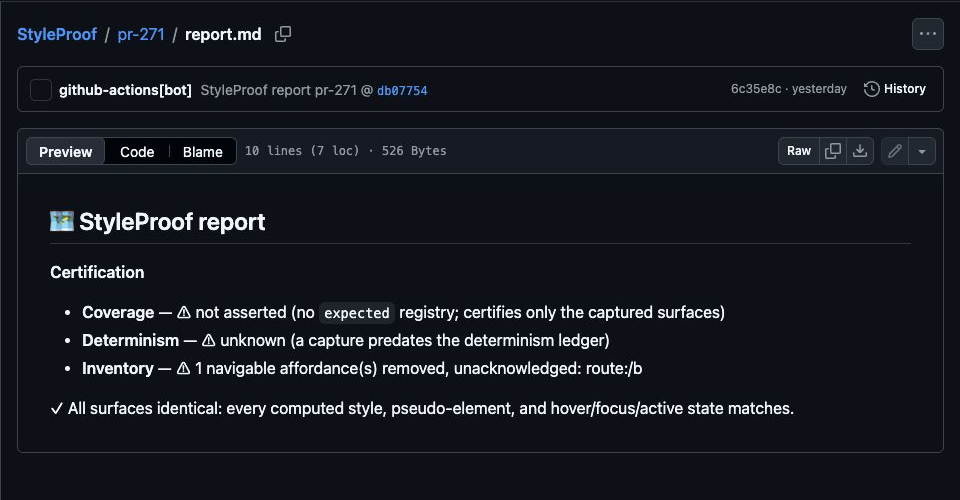
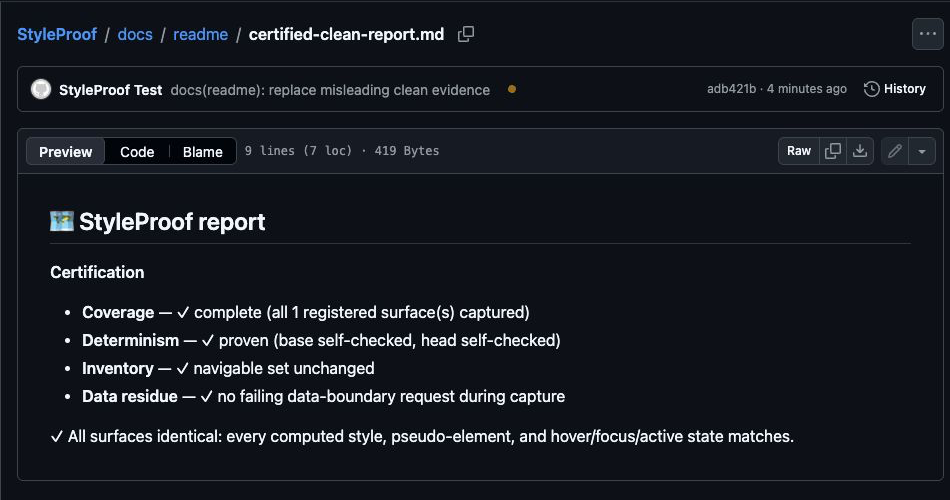
docs(readme): add certified clean screenshot

diff --git a/PROGRESS.md b/PROGRESS.md
@@ -44,7 +44,7 @@
 - Next: run focused and full Action dogfood verification, review the patch, and open a ready pull request.
 - Blockers: none.
 
-## In progress: enterprise README proof correction
+## Completed: enterprise README proof correction
 
 - Reframed the opening around enterprise evaluation: evidence, failure states,
   trust boundaries, adoption, and reviewer workflow.
@@ -53,7 +53,9 @@
 - Captured the deterministic demo twice in real Chromium with an explicit
   registry, self-checking, inventory, and data-residue gating; all 8 capture and
   coverage tests passed and the generated report is fully certified clean.
+- Replaced the misleading image with the GitHub-rendered certified report and
+  linked the screenshot to its committed generated Markdown source.
 - Reconciled the report example with the current deterministic demo output.
-- Next: render the certified report on GitHub, replace the misleading screenshot,
-  then rerun the complete docs-change gate matrix and update PR #294.
+- Verification: build, typecheck, lint, format, privacy, 543 unit tests, 114
+  browser E2E tests, demo freshness, dependency audit, and diff checks pass.
 - Blockers: none.

diff --git a/README.md b/README.md
@@ -30,7 +30,7 @@ design mockups.
 
 ### Certified clean
 
-**[Open the engine-generated certified-clean report](docs/readme/certified-clean-report.md).**
+[![A GitHub-rendered StyleProof report with complete coverage, proven determinism, unchanged inventory, no data residue, and identical computed styles](docs/readme/check-clean.png)](docs/readme/certified-clean-report.md)
 
 This report earns every green claim: the registered surface was captured, both
 base and head passed the self-check, the navigable set stayed intact, no failing